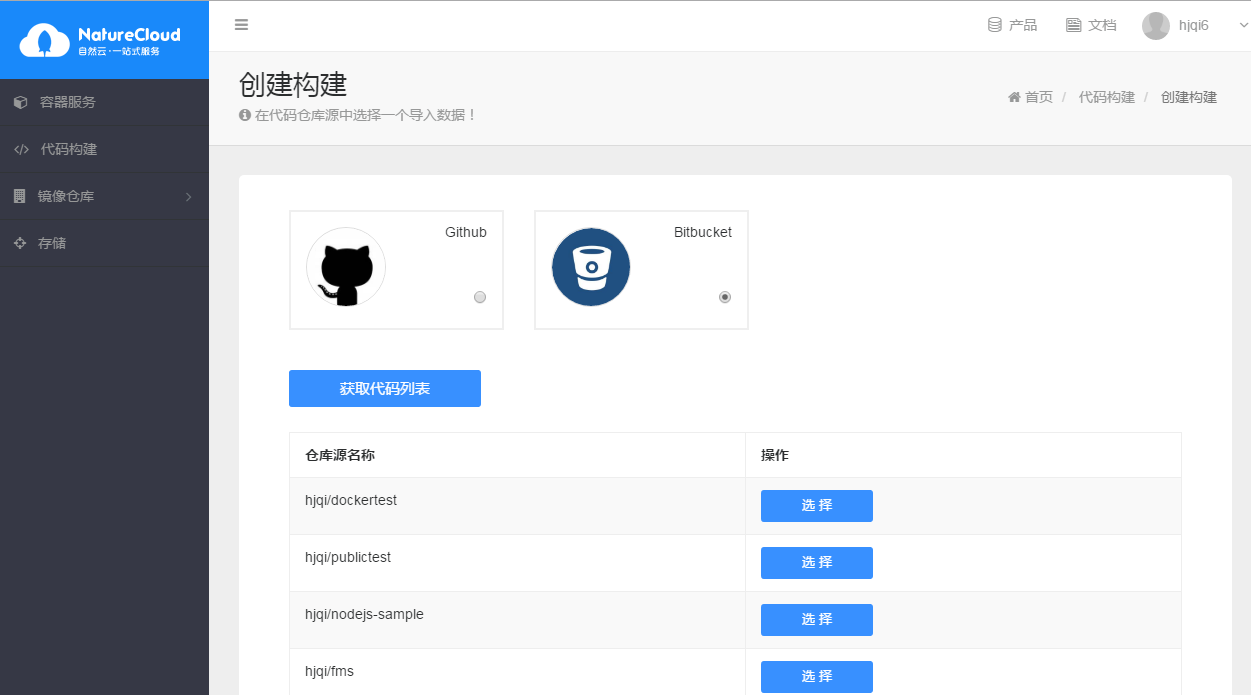
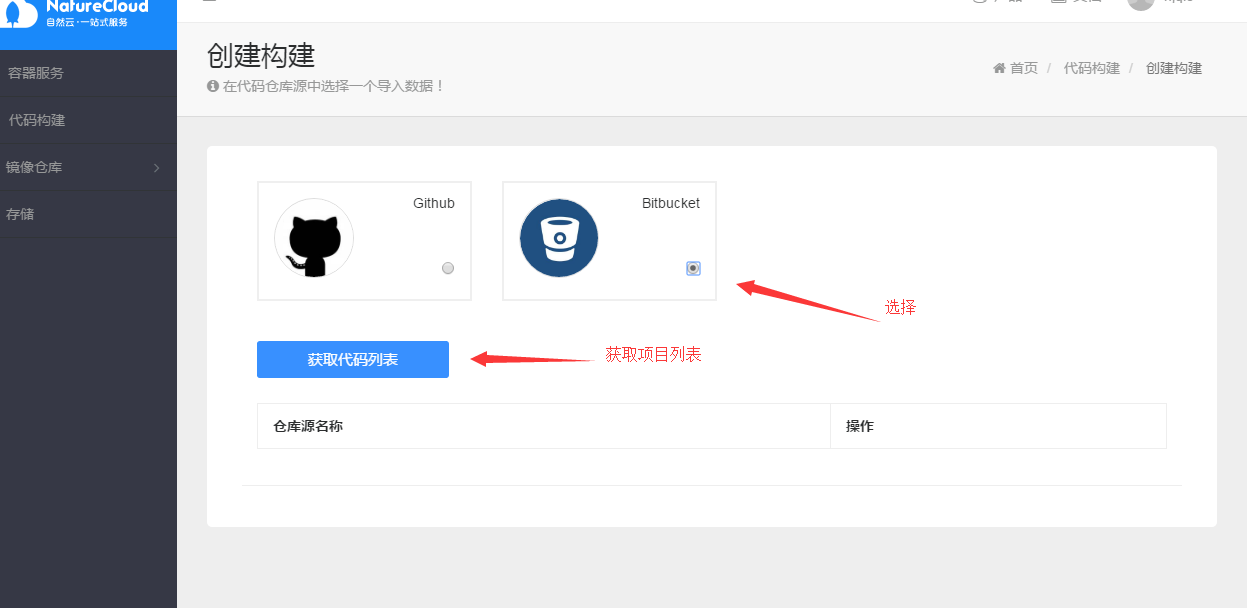
1.update 5 min doc

diff --git a/pages/01.basics/01.in_5_Minutes/docs.md b/pages/01.basics/01.in_5_Minutes/docs.md
@@ -21,7 +21,7 @@ taxonomy:
 
 	然后写自己的dockerfile
 	
-		FROM naturecloud.io/nginx:1.9.14
+		FROM naturecloud.io/library/nginx:1.9.14
 
 		ADD helloword.html /usr/share/nginx/html
 
@@ -30,12 +30,12 @@ taxonomy:
 
 	docker run 系统镜像，然后进入容器里安装依赖
 	
-		root@node:~# docker run  -it naturecloud.io/ubuntu:trusty /bin/bash
+		root@node:~# docker run  -it naturecloud.io/library/nginx:1.9.14 /bin/bash
 		root@e72d0f78365f:~#apt-get install xxxx
 		root@e72d0f78365f:exit
-		root@node:~# docker ps -a | grep naturecloud.io/ubuntu:trusty
-		e72d0f78365f        naturecloud.io/ubuntu:trusty                                      "/bin/bash"          51 minutes ago      Exited (130) 55 seconds ago     
-		root@node:~# docker commit e72d0f78365f mynginx-image
+		root@node:~# docker ps -a | grep naturecloud.io/nginx:1.9.14
+		e72d0f78365f        naturecloud.io/nginx:1.9.14                                      "/bin/bash"          51 minutes ago      Exited (130) 55 seconds ago     
+		root@node:~# docker commit e72d0f78365f nginx-image
[1 lines of base64/hex data omitted]
 
 	跟环境相关的依赖什么安装后，然后只需要将自己的最终的dockerfile from 之前的基础镜像，加入自己的执行程序和启动脚本即可。
@@ -50,9 +50,21 @@ taxonomy:
 - #### 平台构建 ####
 	
 	平台创建可以对接github,bitbucket源码托管的平台
+	![](buildcreate.png)
 	![](sourcebuild.png)
-	在选择某个工程后，进入构建环节，构建完成后可以在我的镜像中查看到之前构建的镜像
-	![](myImages.png)
+	页面跳转到源码托管认证界面
+	![](oauth-login.png)
+	![](oauth-access.png)
+	![](build-select.png)
+	![](buildselect-1.png)
+	![](buildstart.png)
+	![](buildstart-1.png)
+	在构建列表里点击构建名称进入构建任务列表
+	![](buildretlist.png)
+	点击任务序号进入查看构建结果
+	![](buildret.png)
+	构建完成后可以在我的镜像中查看到之前构建的镜像
+	![](myImage.png)
 	
 
 - #### 线下构建 ####
